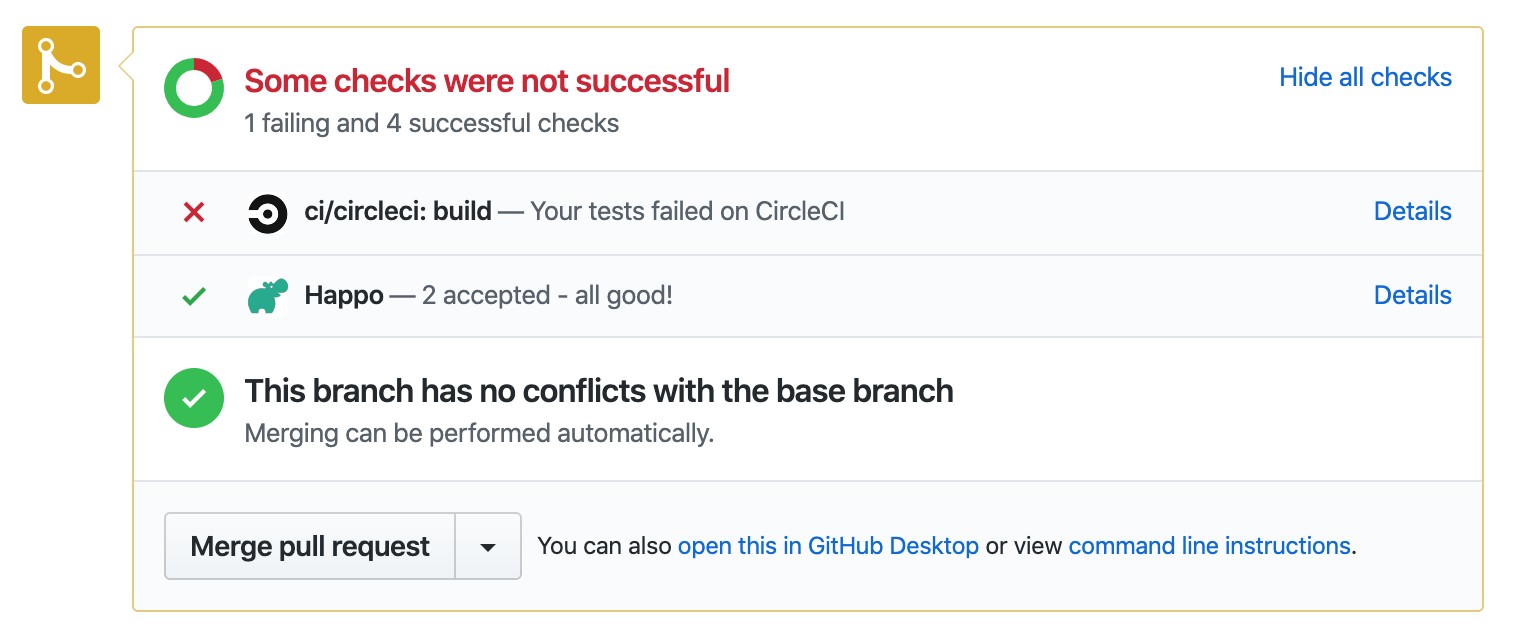
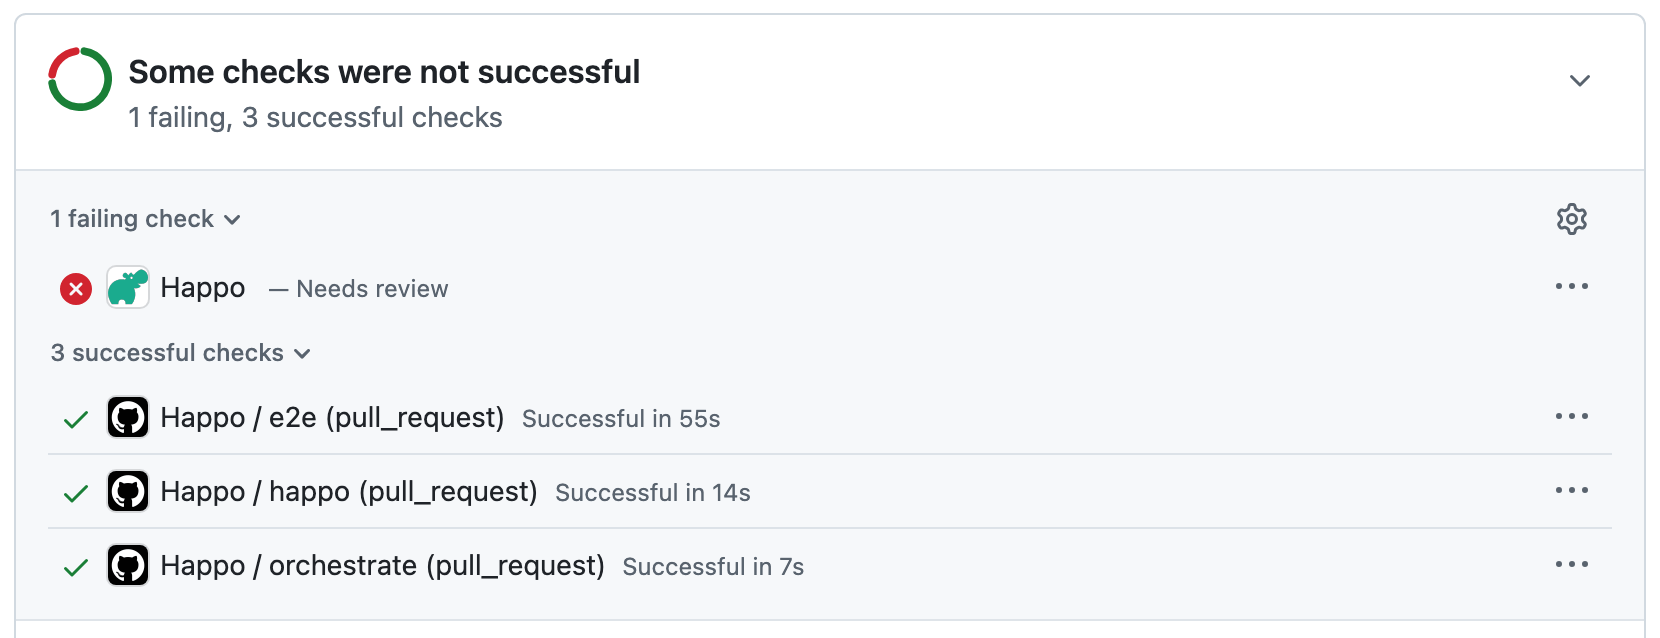
Recapture the multi-project GitHub status screenshots
Both images now come from scenes, using two demo PRs in happo-showcase, which
now has a second Happo project (Playwright end-to-end tests) orchestrated with
the Storybook one. The orchestration example is now a GitHub Actions workflow
like the showcase's, instead of a CircleCI script for the legacy
happo-ci-circleci command, whose docs anchor no longer exists.

diff --git a/docs/multi-project.md b/docs/multi-project.md
@@ -25,26 +25,87 @@ feature._
 If you know beforehand what projects you are going to run Happo for in CI, you
 can call the
 [Orchestration API endpoint](https://happo.io/docs/api#Create%20an%20orchestration%20job)
-to tell Happo what projects you intend to process.
+to tell Happo what projects you intend to process. Happo then combines them into
+one job, and posts one status for all of them.
 
-Here's an example bash script where we orchestrate the `pages` project and the
-`default` project. This script is run in a CircleCI environment, before we
-invoke the
-[`happo-ci-circleci` script](continuous-integration.md#happo-ci-circleci).
+Call the endpoint before any of the projects start running, with the same
+"before" and "after" commits that the `happo` command uses. For a pull request,
+that's the merge base of the PR's base branch and its head commit, and the head
+commit itself.
 
-```bash
-#!/bin/bash
+Here's an example GitHub Actions workflow with two projects: `components`, a
+Storybook configured in `happo.config.ts`, and `e2e`, a Playwright test suite
+configured in `happo.e2e.config.ts`. Pushes to `main` only create the reports
+that PRs are compared against, so there's nothing to orchestrate there.
 
-# Make the whole script fail on errors
-set -euo pipefail
+```yaml title=".github/workflows/happo.yml"
+name: Happo
 
-PREVIOUS_SHA=$(git merge-base origin/master "${CIRCLE_SHA1}")
-CURRENT_SHA="${CIRCLE_SHA1}"
-COMMIT_SUBJECT="$(git show -s --format=%s)"
+on:
+  push:
+    branches: [main]
+  pull_request:
 
-curl --header "Content-Type: application/json" \
-  --request POST \
-  --data "{\"projects\": [\"default\", \"pages\"], \"link\": \"${CIRCLE_PULL_REQUEST:-}\", \"message\": \"${COMMIT_SUBJECT}\"}" \
-  -u "${HAPPO_API_KEY}:${HAPPO_API_SECRET}" \
-  "https://happo.io/api/jobs/${PREVIOUS_SHA}/${CURRENT_SHA}/orchestrate"
+jobs:
+  orchestrate:
+    if: github.event_name == 'pull_request'
+    runs-on: ubuntu-latest
+    steps:
+      - uses: actions/checkout@v4
+        with:
+          ref: ${{ github.event.pull_request.head.sha }}
+          fetch-depth: 0
+      - run: |
+          before_sha=$(git merge-base "$BASE_SHA" "$HEAD_SHA")
+          jq -n --arg link "$PR_URL" --arg message "$PR_TITLE" '{
+            projects: ["components", "e2e"],
+            link: $link,
+            message: $message
+          }' | curl --fail-with-body --silent --show-error --json @- \
+            -u "$HAPPO_API_KEY:$HAPPO_API_SECRET" \
+            "https://happo.io/api/jobs/$before_sha/$HEAD_SHA/orchestrate"
+        env:
+          BASE_SHA: ${{ github.event.pull_request.base.sha }}
+          HEAD_SHA: ${{ github.event.pull_request.head.sha }}
+          PR_URL: ${{ github.event.pull_request.html_url }}
+          PR_TITLE: ${{ github.event.pull_request.title }}
+          HAPPO_API_KEY: ${{ secrets.HAPPO_API_KEY }}
+          HAPPO_API_SECRET: ${{ secrets.HAPPO_API_SECRET }}
+
+  components:
+    needs: orchestrate
+    # Also run on pushes to main, where orchestrate is skipped.
+    if: ${{ !failure() && !cancelled() }}
+    runs-on: ubuntu-latest
+    steps:
+      - uses: actions/checkout@v4
+        with:
+          ref: ${{ github.event.pull_request.head.sha || github.sha }}
+          fetch-depth: 0
+      - uses: actions/setup-node@v4
+      - run: npm ci
+      - run: npx happo
+        env:
+          HAPPO_API_KEY: ${{ secrets.HAPPO_API_KEY }}
+          HAPPO_API_SECRET: ${{ secrets.HAPPO_API_SECRET }}
+
+  e2e:
+    needs: orchestrate
+    if: ${{ !failure() && !cancelled() }}
+    runs-on: ubuntu-latest
+    steps:
+      - uses: actions/checkout@v4
+        with:
+          ref: ${{ github.event.pull_request.head.sha || github.sha }}
+          fetch-depth: 0
+      - uses: actions/setup-node@v4
+      - run: npm ci
+      - run: npx playwright install --with-deps chromium
+      - run: npx happo --config happo.e2e.config.ts -- playwright test
+        env:
+          HAPPO_API_KEY: ${{ secrets.HAPPO_API_KEY }}
+          HAPPO_API_SECRET: ${{ secrets.HAPPO_API_SECRET }}
 ```
+
+The project names in the orchestration call have to match the
+[`project`](configuration.md#project) option in each config file.
